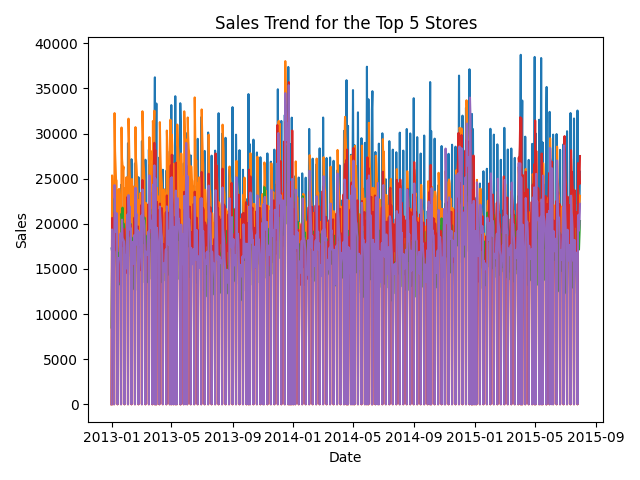
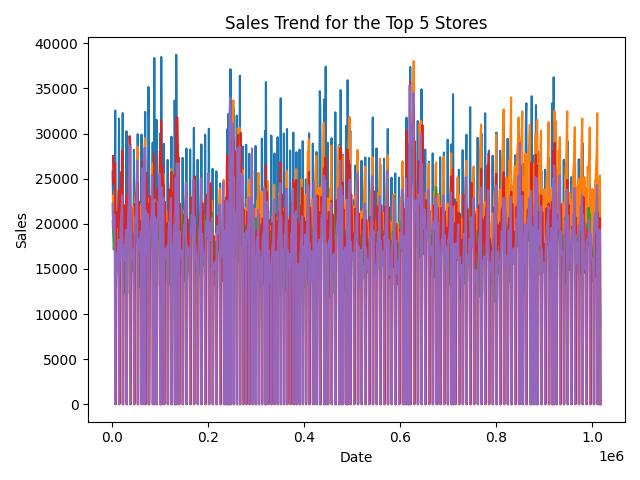
Done

diff --git a/task3.py b/task3.py
@@ -28,7 +28,7 @@ print(f"The store with most consistent sales is: store {storeMinStd}, which has 
 sales['Month'] = sales['Date'].dt.to_period('M') # set dates to months in yyyy-mm format
 monthly_sales_trend = sales.groupby(['Store', 'Month'])['Sales'].sum().reset_index() #sum the sales pr months ans set the series to a dataframe
 monthly_sales_trend.columns = ['Store', 'Month', 'TotalSales'] #create the "totalSales header"
-print(f"the monthly sales for each store:\n{monthly_sales_trend}")
+print(f"The monthly sales for each store:\n{monthly_sales_trend}")
 
 #Sales Distribution by day of the week 
 avgSalesWeekDay = sales.groupby(['DayOfWeek'])['Sales'].mean()
@@ -54,8 +54,7 @@ plt.figure()
 
 for store in topStores:
     store_data = topSales[topSales['Store'] == store]
-    plt.plot(store_data['Date'], store_data['Sales'], label=f'Store {store}') # I im not sure if this is the correct line plot, but i do not have time to correct it 
-
+    plt.plot(store_data['Date'].index, store_data['Sales'].values, label=f'Store {store}') # I im not sure if this is the correct line plot, but i do not have time to correct it 
 plt.title('Sales Trend for the Top 5 Stores')
 plt.xlabel('Date')
 plt.ylabel('Sales')

diff --git a/task1.py b/task1.py
@@ -1,7 +1,7 @@
 # A
 
 data1 = {
-    'salesTarget': input("type performance of Sales Target: Less than 80%: Poor\n80% to 100%: Average\n 100% to 120%: Good\nAbove 120%: Excellent\n"),
+    'salesTarget': input("type performance of Sales Target: Less than 80%: Poor\n80% to 100%: Average\n100% to 120%: Good\nAbove 120%: Excellent\n"),
     'customerSatisfaction': input("type performance of Customer Satisfaction:\nLess than 6: Poor\n6 to 7: Average\n8 to 9: Good\n10: Excellent\n"),
     'attendance': input("type performance of attendance:\nLess than 20 days: Poor\n20 to 24 days: Average\n25 to 27 days: Good\n28 and more days: Excellent\n"),
     'peerFeedback': input("Type performance of Peer Feedback:\nLess than 4: Poor\n4 to 6: Average\n7 to 8: Good\n9 to 10: Excellent\n")

diff --git a/task4.py b/task4.py
@@ -7,7 +7,7 @@ avgDemand = 800
 maxProduction = 1200
 
 def simulate_production(productionCost):
-    productionQuantities = list(range(maxProduction + 1)) #i make the list so i can use it to plot the figure 
+    productionQuantities = list(range(maxProduction + 1)) #i make the lists so i can use it to plot the figure 
     avgProfits = []
 
     for production in productionQuantities:
